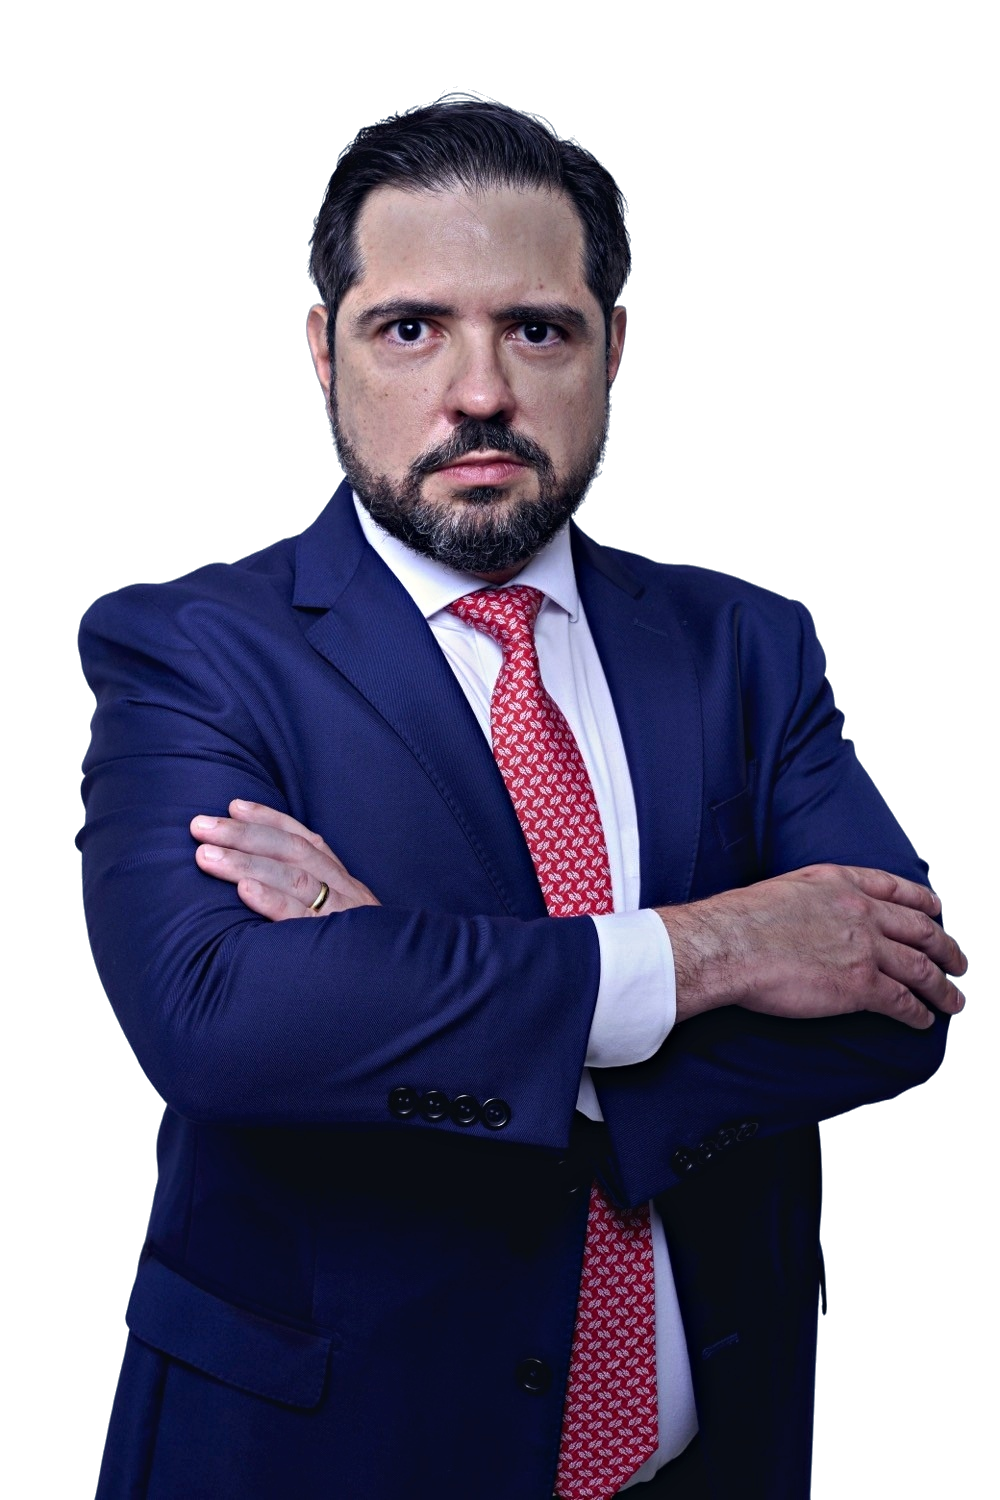
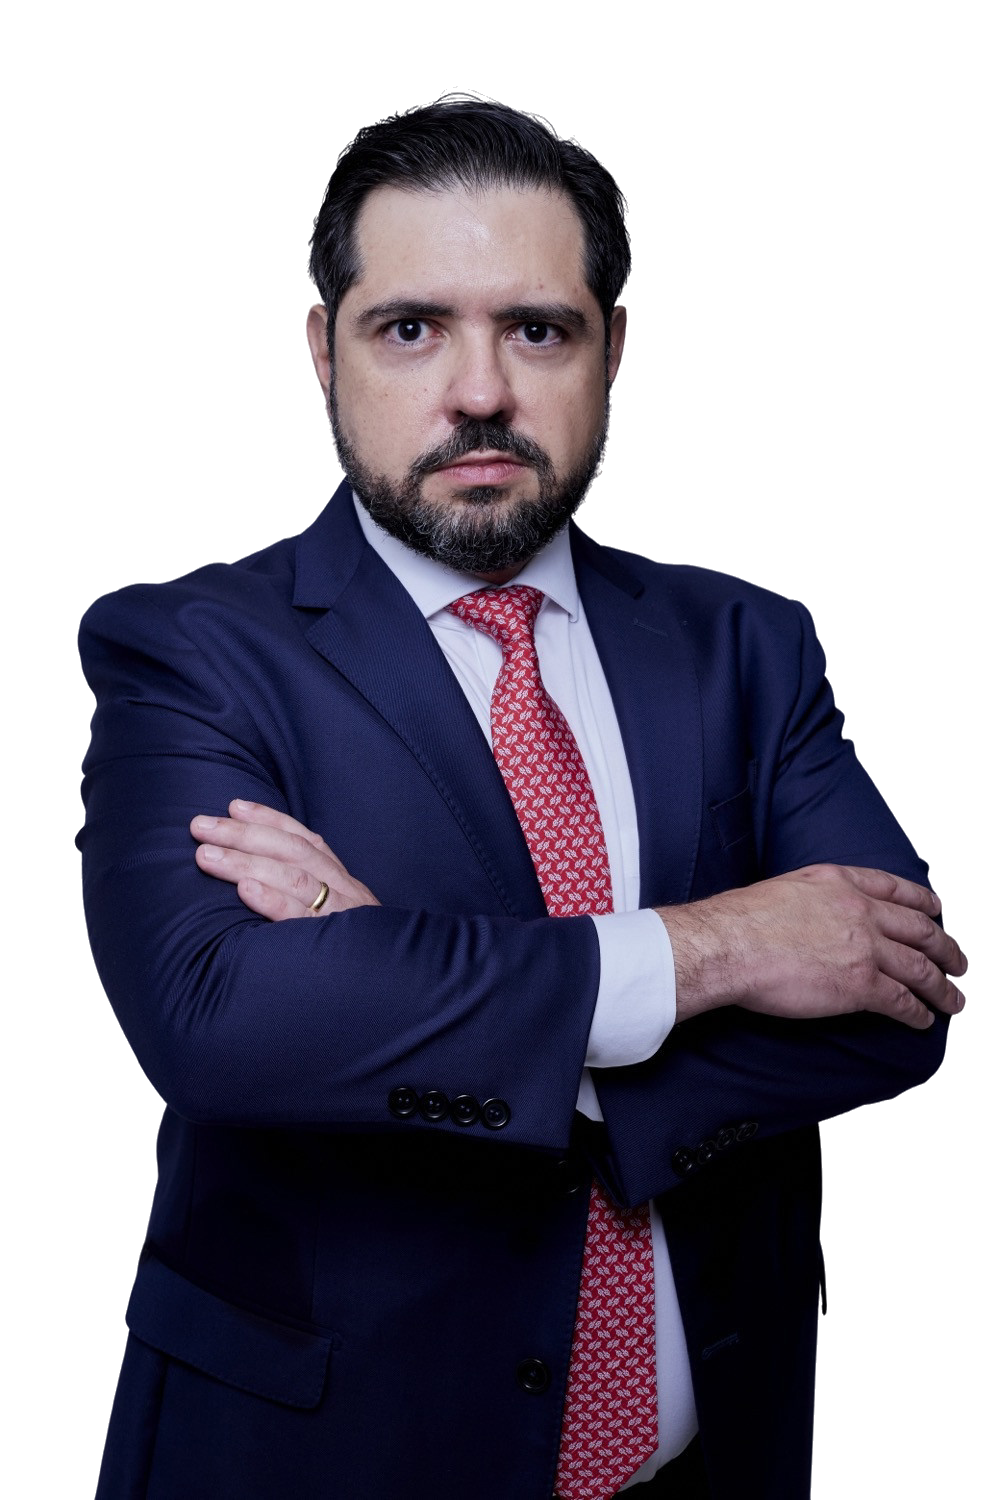
Diagramação do bloco do hero, e volta a foto original
Foto: revertida para a versão anterior a pedido — o tratamento de luz não
passou.

Diagramação:
- Credencial e praça agora dividem a mesma linha, ancoradas nas duas pontas
  da régua do divisor. Antes "São Paulo" caía numa segunda linha, órfão e
  esmaecido.
- O título quebrava deixando "de alta" sozinha, e em telas grandes pendurava
  a conjunção e a preposição no fim das linhas ("vascular e", "craniana de").
  Ajustados corpo e medida até fechar em três linhas com quebra semântica
  limpa — Neurocirurgia / vascular e craniana / de alta complexidade —
  idêntica em 390, 834, 1280 e 1440.
- Eyebrow, divisor e título passam a compartilhar a mesma medida (440px), o
  que alinha o bloco inteiro.

diff --git a/src/app/components/Hero.tsx b/src/app/components/Hero.tsx
@@ -209,21 +209,24 @@ export default function Hero() {
       <div className="relative z-10 flex-1 grid grid-cols-12 gap-x-6 gap-y-10 px-6 md:px-8 pt-24 sm:pt-28 lg:pt-[18vh] content-start">
         {/* Left: eyebrow + title */}
         <div className="col-span-12 md:col-span-6 lg:col-span-4 xl:col-span-4">
+          {/* Credencial e praça dividem a MESMA linha, ancoradas nas duas
+              pontas da régua do divisor — some o "São Paulo" órfão e o bloco
+              passa a ter a largura do título. */}
           <p
             data-hero="eyebrow"
-            className="font-['Geist_Mono',sans-serif] font-medium uppercase text-soft text-[14px] sm:text-[16px] lg:text-[20px] leading-[0.92] tracking-[0.07em]"
+            className="flex items-baseline justify-between gap-3 w-full max-w-[440px] font-['Geist_Mono',sans-serif] font-medium uppercase text-soft text-[13px] sm:text-[15px] lg:text-[17px] leading-[1] tracking-[0.07em]"
           >
-            MD PhD – Neurocirurgião
-            <span className="block text-cream/55">São Paulo</span>
+            <span>MD PhD – Neurocirurgião</span>
+            <span className="text-cream/60 whitespace-nowrap">São Paulo</span>
           </p>
           <div
             data-hero="divider"
-            className="mt-5 lg:mt-[26px] h-px w-full max-w-[416px] bg-white/24"
+            className="mt-4 lg:mt-5 h-px w-full max-w-[440px] bg-white/24"
           />
           <h1
             data-hero="title"
-            className="mt-5 lg:mt-[22px] font-['Geist',sans-serif] font-normal text-cream leading-[1.1] tracking-[-0.04em] max-w-[420px]"
-            style={{ fontSize: "clamp(28px, 3.2vw, 48px)" }}
+            className="mt-5 lg:mt-[22px] font-['Geist',sans-serif] font-normal text-cream leading-[1.06] tracking-[-0.04em] max-w-[440px]"
+            style={{ fontSize: "clamp(30px, 3.05vw, 44px)", textWrap: "balance" }}
           >
             Neurocirurgia vascular e craniana de alta complexidade
           </h1>